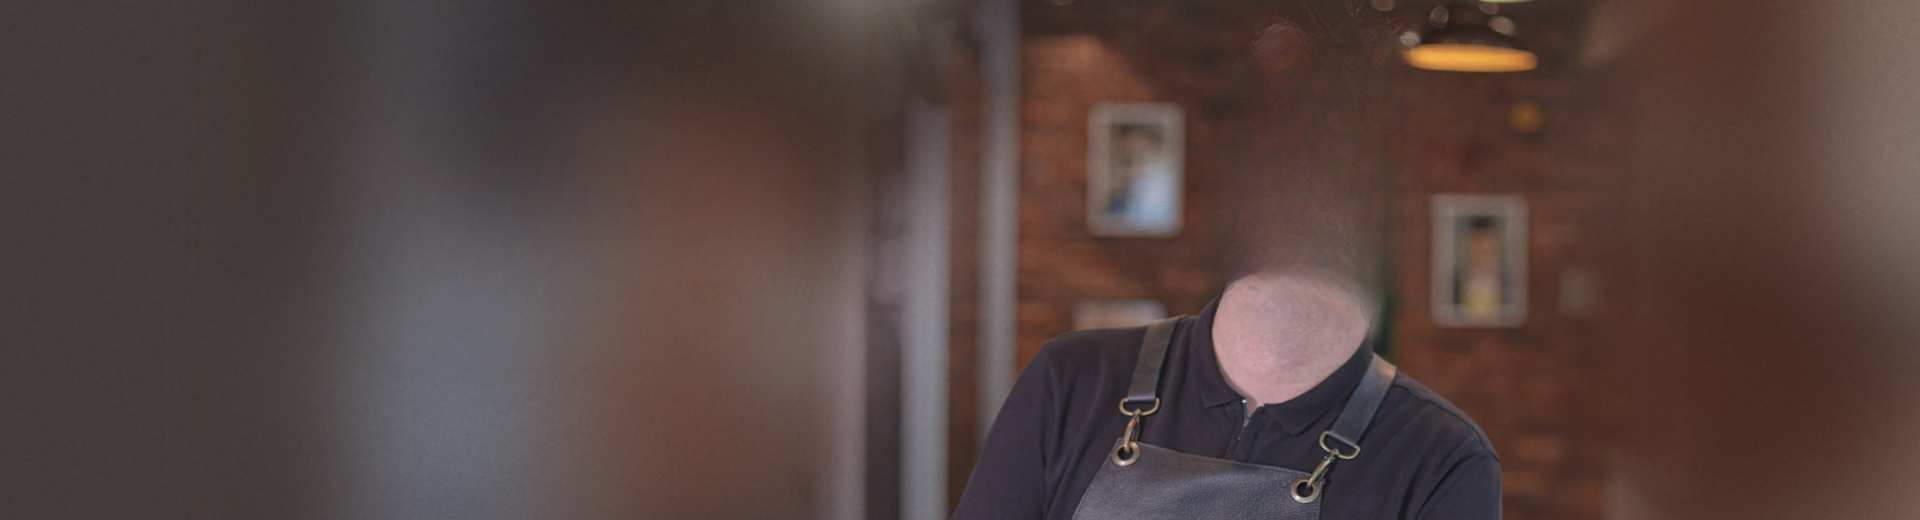
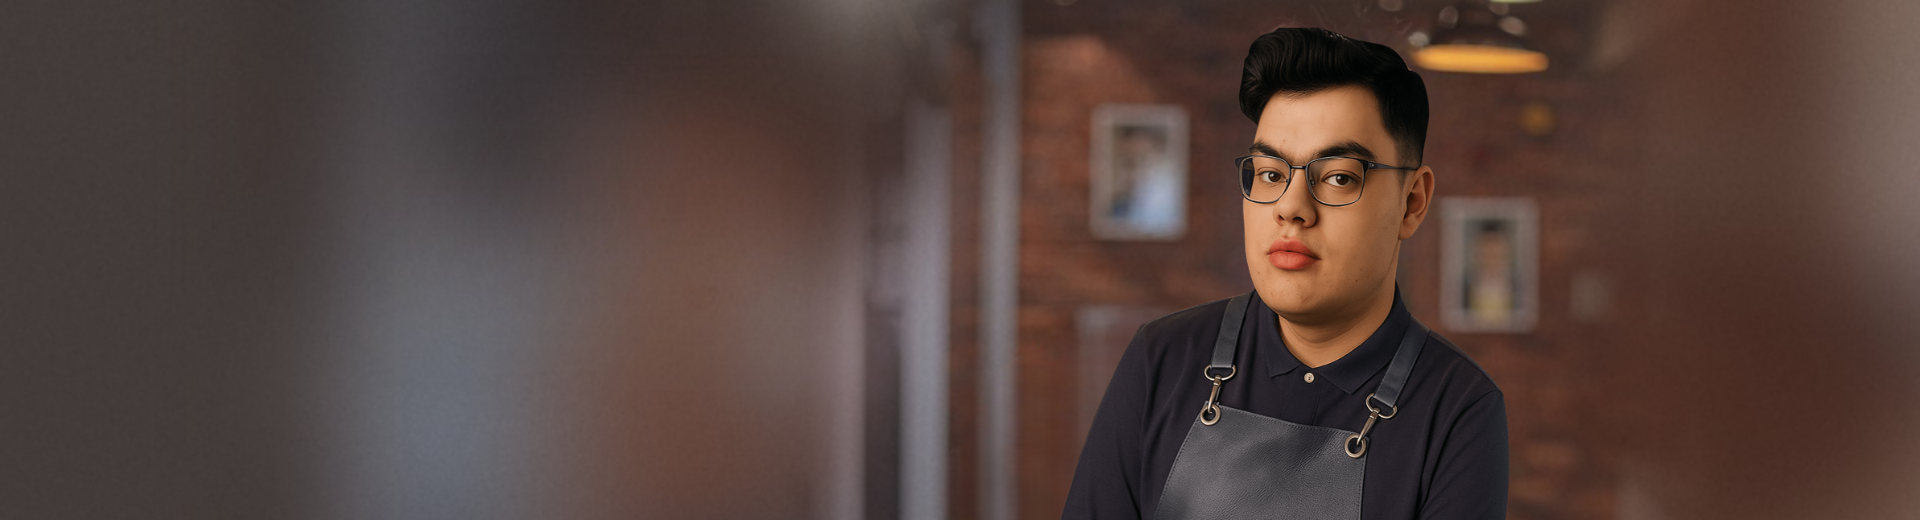
ajustes nas imagens

diff --git a/index.html b/index.html
@@ -196,7 +196,7 @@
     <div class="barbeiro">
       <div class="barbeiro_esquerda">
         <div class="nome">
-          <h2>NOME DO BARBEIRO</h2>
+          <h2>JÃO E O PÉ DE FEIJÃO</h2>
         </div>
         <div class="dados">
           <ul>
@@ -223,14 +223,14 @@
       </div>
 
       <div class="barbeiro_direita">
-        <img src="img/barbeiro1.png" alt="">
+        <img src="img/jao.png" alt="">
       </div>
     </div>
 
     <div class="barbeiro">
       <div class="barbeiro_esquerda">
         <div class="nome">
-          <h2>NOME DO BARBEIRO</h2>
+          <h2>PAULÃO BRABÃO</h2>
         </div>
         <div class="dados">
           <ul>
@@ -257,14 +257,14 @@
       </div>
 
       <div class="barbeiro_direita">
-        <img src="img/barbeiro1.png" alt="">
+        <img src="img/paulao.png" alt="">
       </div>
     </div>
 
     <div class="barbeiro">
       <div class="barbeiro_esquerda">
         <div class="nome">
-          <h2>NOME DO BARBEIRO</h2>
+          <h2>VINI PICA ATRÁS</h2>
         </div>
         <div class="dados">
           <ul>
@@ -291,7 +291,7 @@
       </div>
 
       <div class="barbeiro_direita">
-        <img src="img/barbeiro1.png" alt="">
+        <img src="img/vini.png" alt="">
       </div>
     </div>
 
